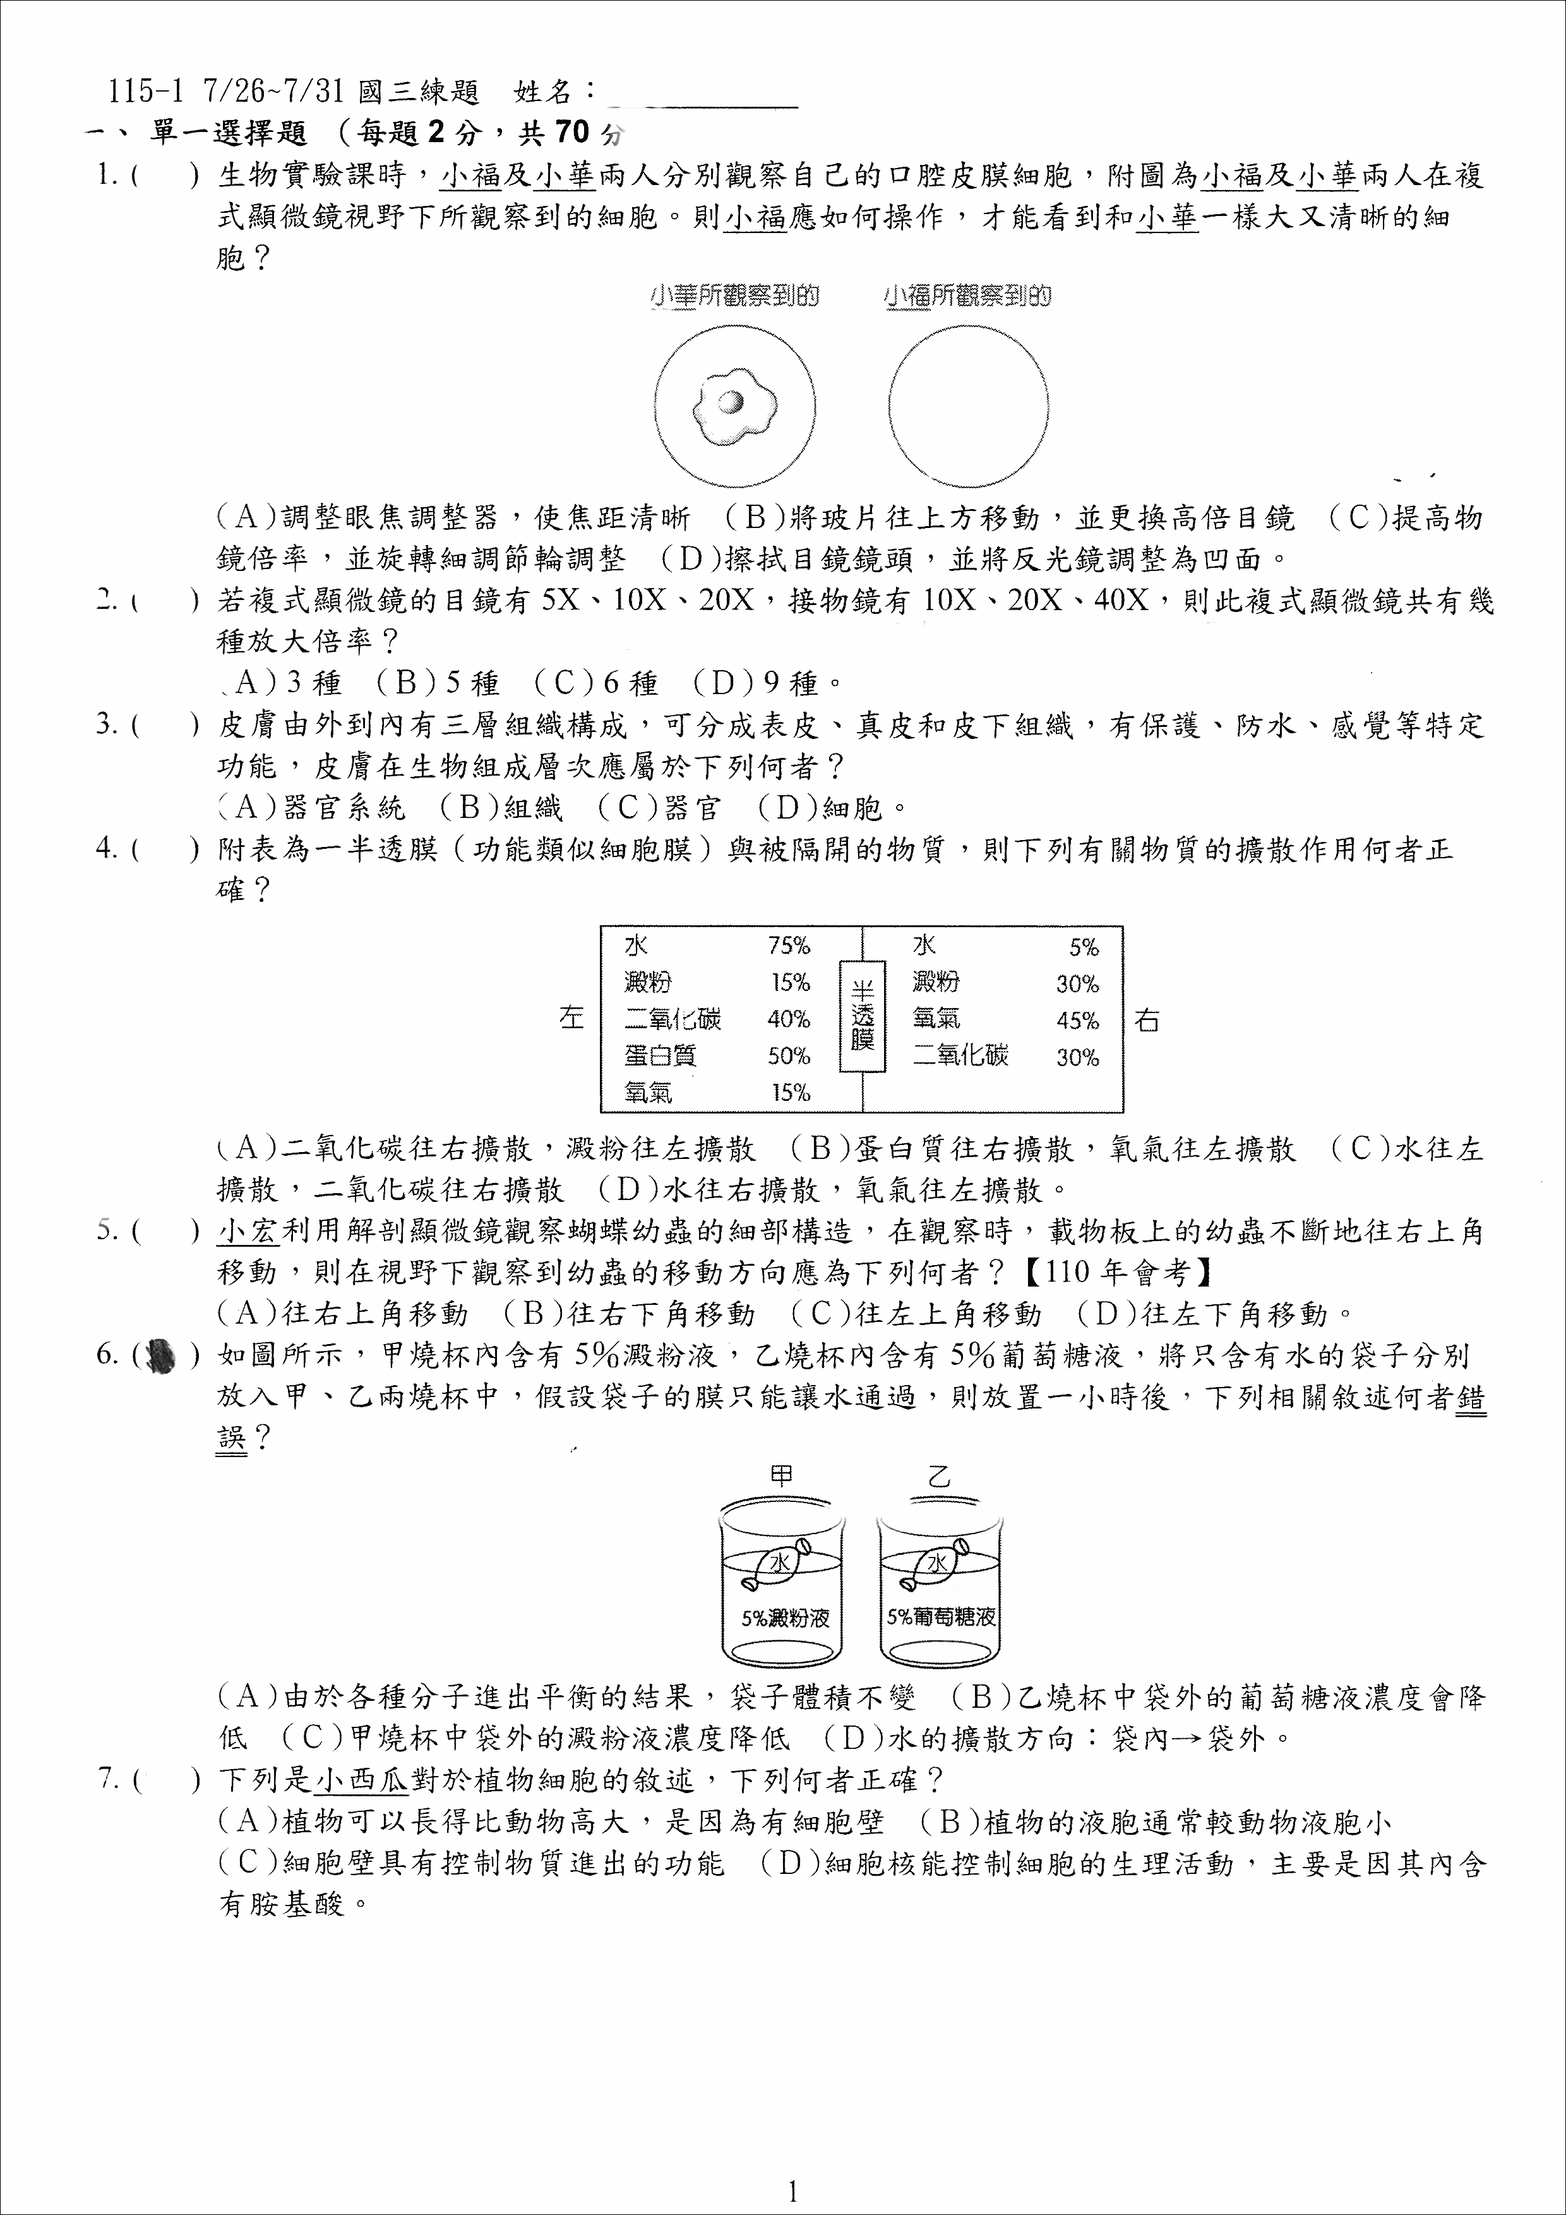
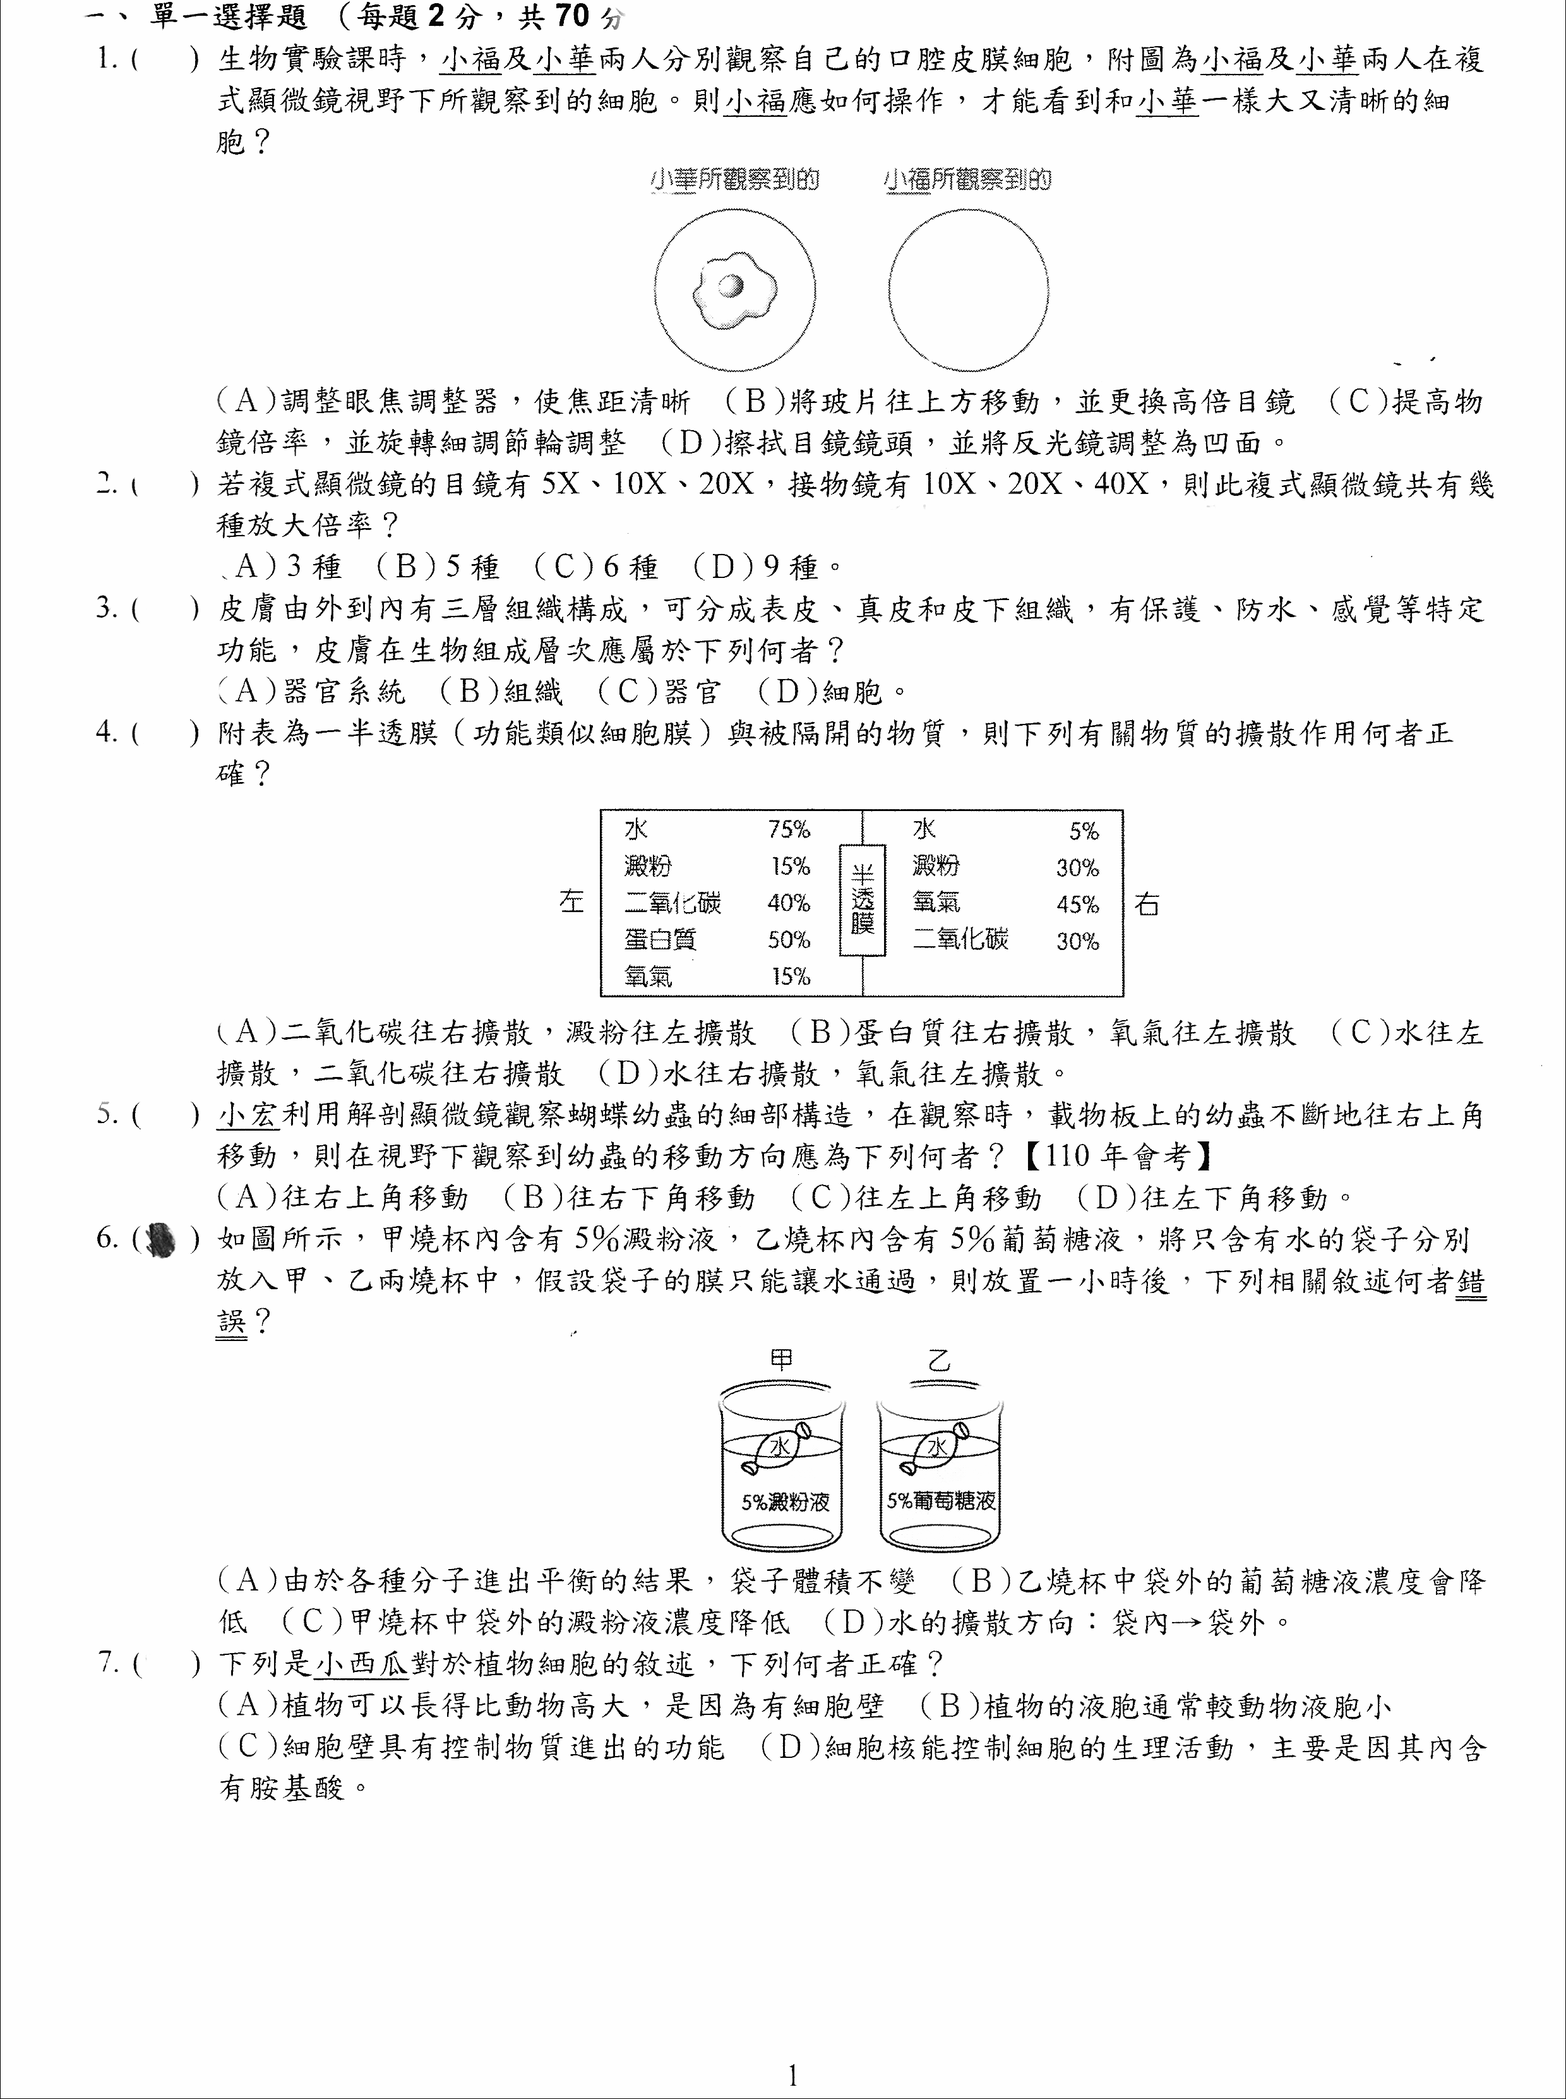
V 4.28

diff --git a/public/introduce.html b/public/introduce.html
@@ -6,10 +6,6 @@
     <title>Magic Eraser Klareo - 介紹</title>
     <!-- Tailwind CSS -->
     <script src="https://cdn.tailwindcss.com"></script>
-    <!-- tsParticles -->
-    <script src="https://cdn.jsdelivr.net/npm/tsparticles-engine@2/tsparticles.engine.min.js"></script>
-    <script src="https://cdn.jsdelivr.net/npm/tsparticles-basic@2/tsparticles.basic.min.js"></script>
-    <script src="https://cdn.jsdelivr.net/npm/tsparticles@2/tsparticles.bundle.min.js"></script>
     
     <style>
         body {
@@ -87,32 +83,83 @@
 </head>
 <body class="antialiased selection:bg-blue-200">
 
-    <!-- Hero / Sparkles Section (Full Viewport) -->
-    <div class="min-h-screen w-full flex flex-col items-center justify-center overflow-hidden relative">
-        <div class="relative z-20 text-center px-4 mt-[-10vh]">
-            <h1 class="apple-title text-5xl md:text-7xl lg:text-9xl font-bold text-gradient mb-6 pb-2">
-                Magic Eraser Klareo
-            </h1>
-            <p class="apple-text text-xl md:text-3xl text-zinc-500 font-medium max-w-2xl mx-auto text-balance">
-                彈指之間，完美消除任何不需要的元素。
-            </p>
+    <!-- Floating Navbar -->
+    <nav class="fixed top-4 md:top-6 left-1/2 -translate-x-1/2 z-50 w-[92%] md:w-[85%] max-w-5xl bg-white/70 backdrop-blur-xl border border-zinc-200/50 shadow-[0_8px_32px_rgba(0,0,0,0.06)] rounded-full px-5 py-3 flex items-center justify-between transition-all duration-300">
+        <!-- Logo -->
+        <a href="#home" class="flex items-center gap-2 text-zinc-900 font-bold text-xl apple-title cursor-pointer transition-transform hover:scale-105">
+            <svg width="24" height="24" viewBox="0 0 24 24" fill="none" stroke="currentColor" stroke-width="2.5" stroke-linecap="round" stroke-linejoin="round" class="text-blue-600"><path d="M12 2L2 7l10 5 10-5-10-5z"></path><path d="M2 17l10 5 10-5"></path><path d="M2 12l10 5 10-5"></path></svg>
+            <span>Klareo</span>
+        </a>
+
+        <!-- Desktop Nav Items -->
+        <div class="hidden md:flex items-center gap-8">
+            <a href="#features" class="text-sm font-semibold text-zinc-500 hover:text-zinc-900 transition-colors apple-text">核心特色</a>
+            <a href="#capabilities" class="text-sm font-semibold text-zinc-500 hover:text-zinc-900 transition-colors apple-text">實力展示</a>
+            <a href="#cta" class="text-sm font-semibold text-zinc-500 hover:text-zinc-900 transition-colors apple-text">準備體驗</a>
         </div>
 
-        <div class="absolute top-1/2 left-1/2 -translate-x-1/2 -translate-y-1/2 w-full max-w-[50rem] h-[30rem] mt-20 pointer-events-none">
-            <!-- Core component (particles) -->
-            <div id="tsparticles" class="w-full h-full relative z-10 opacity-70"></div>
-            <!-- Radial Gradient Mask matching body bg -->
-            <div class="absolute inset-0 w-full h-full z-20 pointer-events-none" style="background-color: #FBFBFD; mask-image: radial-gradient(400px 300px at center, transparent 10%, white 70%); -webkit-mask-image: radial-gradient(400px 300px at center, transparent 10%, white 70%);"></div>
+        <!-- Desktop Buttons -->
+        <div class="hidden md:flex items-center gap-3">
+            <button onclick="window.location.href='index.html'" class="px-5 py-2.5 rounded-full text-sm font-semibold text-zinc-600 hover:bg-zinc-100 transition-colors apple-text">
+                登入
+            </button>
+            <button onclick="sessionStorage.setItem('intro_seen', 'true'); window.location.href='index.html'" class="px-5 py-2.5 rounded-full text-sm font-bold text-white bg-zinc-900 hover:bg-zinc-800 transition-all shadow-md hover:shadow-lg hover:-translate-y-0.5 apple-text">
+                開始使用
+            </button>
         </div>
-        
-        <!-- Scroll indicator -->
-        <div class="absolute bottom-12 left-1/2 -translate-x-1/2 animate-bounce text-zinc-400">
-            <svg width="24" height="24" viewBox="0 0 24 24" fill="none" stroke="currentColor" stroke-width="2" stroke-linecap="round" stroke-linejoin="round"><path d="M12 5v14M19 12l-7 7-7-7"/></svg>
+
+        <!-- Mobile Toggle -->
+        <button id="mobile-menu-toggle" class="md:hidden text-zinc-800 p-2 z-[60] relative">
+            <svg id="menu-icon" width="24" height="24" viewBox="0 0 24 24" fill="none" stroke="currentColor" stroke-width="2" stroke-linecap="round" stroke-linejoin="round" class="transition-transform duration-300"><line x1="4" y1="12" x2="20" y2="12"></line><line x1="4" y1="6" x2="20" y2="6"></line><line x1="4" y1="18" x2="20" y2="18"></line></svg>
+            <svg id="close-icon" width="24" height="24" viewBox="0 0 24 24" fill="none" stroke="currentColor" stroke-width="2" stroke-linecap="round" stroke-linejoin="round" class="hidden transition-transform duration-300"><line x1="18" y1="6" x2="6" y2="18"></line><line x1="6" y1="6" x2="18" y2="18"></line></svg>
+        </button>
+    </nav>
+
+    <!-- Mobile Menu Overlay -->
+    <div id="mobile-menu" class="fixed inset-0 z-40 bg-white/95 backdrop-blur-2xl flex-col pt-32 px-8 hidden opacity-0 transition-opacity duration-300">
+        <div class="flex flex-col gap-8 text-left">
+            <a href="#features" class="mobile-link text-3xl font-bold text-zinc-800 apple-title border-b border-zinc-100 pb-4">核心特色</a>
+            <a href="#capabilities" class="mobile-link text-3xl font-bold text-zinc-800 apple-title border-b border-zinc-100 pb-4">實力展示</a>
+            <a href="#cta" class="mobile-link text-3xl font-bold text-zinc-800 apple-title border-b border-zinc-100 pb-4">準備體驗</a>
+        </div>
+        <div class="flex flex-col gap-4 mt-auto mb-10">
+            <button onclick="window.location.href='index.html'" class="w-full py-4 rounded-2xl text-lg font-semibold text-zinc-700 bg-zinc-100 active:bg-zinc-200 transition-colors apple-text">
+                登入
+            </button>
+            <button onclick="sessionStorage.setItem('intro_seen', 'true'); window.location.href='index.html'" class="w-full py-4 rounded-2xl text-lg font-bold text-white bg-blue-600 active:bg-blue-700 transition-colors shadow-xl apple-text">
+                開始使用
+            </button>
+        </div>
+    </div>
+
+    <!-- Hero / Scroll Animation Section -->
+    <div id="home" class="hero-scroll-wrapper relative h-[120vh] w-full bg-[#FBFBFD] pt-10">
+        <div class="sticky top-0 h-screen w-full flex flex-col items-center justify-center pt-16 md:pt-20" style="perspective: 1200px;">
+            
+            <div class="hero-scroll-title text-center mb-6 md:mb-10 transition-transform duration-75 will-change-transform z-20 px-4">
+                <h1 class="text-4xl md:text-5xl font-semibold text-zinc-900 apple-title tracking-tight">
+                    Unleash the power of <br />
+                    <span class="text-5xl md:text-[7.5rem] font-bold mt-2 md:mt-4 leading-none text-gradient block drop-shadow-sm pb-2">
+                        Magic Eraser
+                    </span>
+                </h1>
+            </div>
+
+            <div class="hero-scroll-card w-[92%] max-w-5xl h-[45vh] md:h-[65vh] bg-zinc-800 rounded-[2rem] md:rounded-[2.5rem] border-[4px] md:border-[8px] border-[#3f3f46] p-1 md:p-2 shadow-2xl transition-transform duration-75 ease-out will-change-transform z-10" style="transform: rotateX(25deg) scale(0.9) translateY(40px);">
+                <div class="w-full h-full bg-black rounded-[1.5rem] md:rounded-[2rem] overflow-hidden relative">
+                    <img src="hero_scroll.png" class="w-full h-full object-cover object-left-top" alt="hero" onerror="this.onerror=null; this.src='https://images.unsplash.com/photo-1616499370260-485e3e5810e7?q=80&w=3538&auto=format&fit=crop';">
+                </div>
+            </div>
+            
+            <!-- Scroll indicator -->
+            <div class="hero-scroll-indicator absolute bottom-8 left-1/2 -translate-x-1/2 animate-bounce text-zinc-400 transition-opacity duration-300">
+                <svg width="24" height="24" viewBox="0 0 24 24" fill="none" stroke="currentColor" stroke-width="2" stroke-linecap="round" stroke-linejoin="round"><path d="M12 5v14M19 12l-7 7-7-7"/></svg>
+            </div>
         </div>
     </div>
 
     <!-- Features Section -->
-    <div class="w-full py-32 px-4 md:px-8">
+    <div id="features" class="w-full py-32 px-4 md:px-8">
         <!-- Unified Section Title with Text Flip -->
         <h2 class="apple-title max-w-7xl mx-auto text-4xl md:text-6xl lg:text-7xl font-bold text-zinc-900 mb-20 text-balance leading-tight">
             讓您的影像處理變得 10 倍 
@@ -174,7 +221,7 @@
     </div>
 
     <!-- Carousel Section (Capabilities) -->
-    <div class="w-full py-32 overflow-hidden bg-[#FBFBFD]">
+    <div id="capabilities" class="w-full py-32 overflow-hidden bg-[#FBFBFD]">
         <!-- Unified Section Title with Text Flip -->
         <h2 class="apple-title max-w-7xl px-4 md:px-8 mx-auto w-full text-4xl md:text-6xl lg:text-7xl font-bold text-zinc-900 mb-20 text-balance leading-tight">
             親自體驗 
@@ -248,7 +295,7 @@
     </div>
 
     <!-- Footer / CTA Section -->
-    <div class="py-32 w-full flex flex-col items-center justify-center relative overflow-hidden">
+    <div id="cta" class="py-32 w-full flex flex-col items-center justify-center relative overflow-hidden">
         <h2 class="apple-title text-4xl md:text-5xl font-bold text-zinc-900 mb-10 text-center px-4 tracking-tight">
             準備好體驗了嗎？
         </h2>
@@ -261,37 +308,41 @@
 
     <!-- Scripts -->
     <script>
-        // --- Sparkles (tsParticles) ---
-        tsParticles.load("tsparticles", {
-            fullScreen: { enable: false },
-            fpsLimit: 120,
-            particles: {
-                color: { value: "#8e8e93" }, // Apple gray for particles
-                links: { enable: false },
-                move: {
-                    enable: true,
-                    direction: "none",
-                    outModes: { default: "out" },
-                    random: true,
-                    speed: 0.5,
-                    straight: false,
-                },
-                number: {
-                    density: { enable: true, area: 1000 },
-                    value: 80,
-                },
-                opacity: {
-                    value: { min: 0.1, max: 0.4 },
-                    animation: {
-                        enable: true,
-                        speed: 1,
-                        minimumValue: 0.1,
-                    }
-                },
-                shape: { type: "circle" },
-                size: { value: { min: 0.5, max: 2 } },
-            },
-            detectRetina: true,
+        // --- Mobile Menu ---
+        const mobileToggle = document.getElementById('mobile-menu-toggle');
+        const mobileMenu = document.getElementById('mobile-menu');
+        const menuIcon = document.getElementById('menu-icon');
+        const closeIcon = document.getElementById('close-icon');
+        
+        const toggleMobileMenu = () => {
+            const isHidden = mobileMenu.classList.contains('hidden');
+            if(isHidden) {
+                mobileMenu.classList.remove('hidden');
+                mobileMenu.classList.add('flex');
+                void mobileMenu.offsetWidth; // Reflow
+                mobileMenu.classList.remove('opacity-0');
+                menuIcon.classList.add('hidden');
+                closeIcon.classList.remove('hidden');
+                document.body.style.overflow = 'hidden';
+            } else {
+                mobileMenu.classList.add('opacity-0');
+                menuIcon.classList.remove('hidden');
+                closeIcon.classList.add('hidden');
+                document.body.style.overflow = '';
+                setTimeout(() => {
+                    mobileMenu.classList.add('hidden');
+                    mobileMenu.classList.remove('flex');
+                }, 300);
+            }
+        };
+
+        mobileToggle.addEventListener('click', toggleMobileMenu);
+
+        // Close mobile menu when clicking links
+        document.querySelectorAll('.mobile-link').forEach(link => {
+            link.addEventListener('click', () => {
+                toggleMobileMenu();
+            });
         });
 
         // --- Carousel Modal ---
@@ -398,6 +449,45 @@
         
         initTextFlip('.text-flip-inner', 4);
         initTextFlip('.text-flip-inner-2', 4);
+
+        // --- Container Scroll Animation ---
+        const scrollWrapper = document.querySelector('.hero-scroll-wrapper');
+        const scrollCard = document.querySelector('.hero-scroll-card');
+        const scrollTitle = document.querySelector('.hero-scroll-title');
+        const scrollIndicator = document.querySelector('.hero-scroll-indicator');
+
+        if (scrollWrapper && scrollCard && scrollTitle) {
+            window.addEventListener('scroll', () => {
+                const rect = scrollWrapper.getBoundingClientRect();
+                const maxScroll = scrollWrapper.offsetHeight - window.innerHeight;
+                let progress = -rect.top / maxScroll;
+                
+                // Clamp progress between 0 and 1
+                progress = Math.max(0, Math.min(1, progress));
+                
+                // Fade out indicator
+                if (progress > 0.05) {
+                    scrollIndicator.classList.add('opacity-0');
+                } else {
+                    scrollIndicator.classList.remove('opacity-0');
+                }
+
+                // Map progress to transformations
+                // rotateX: 25deg -> 0deg
+                // scale: 0.9 -> 1.0
+                // translateY: 40px -> 0px
+                const rotateX = 25 - (progress * 25);
+                const scale = 0.9 + (progress * 0.1);
+                const translateY = 40 - (progress * 40);
+                
+                scrollCard.style.transform = `rotateX(${rotateX}deg) scale(${scale}) translateY(${translateY}px)`;
+                
+                // Move title slightly up and scale down slightly
+                const titleTranslateY = -(progress * 40);
+                const titleScale = 1 - (progress * 0.1);
+                scrollTitle.style.transform = `translateY(${titleTranslateY}px) scale(${titleScale})`;
+            });
+        }
     </script>
 </body>
 </html>
